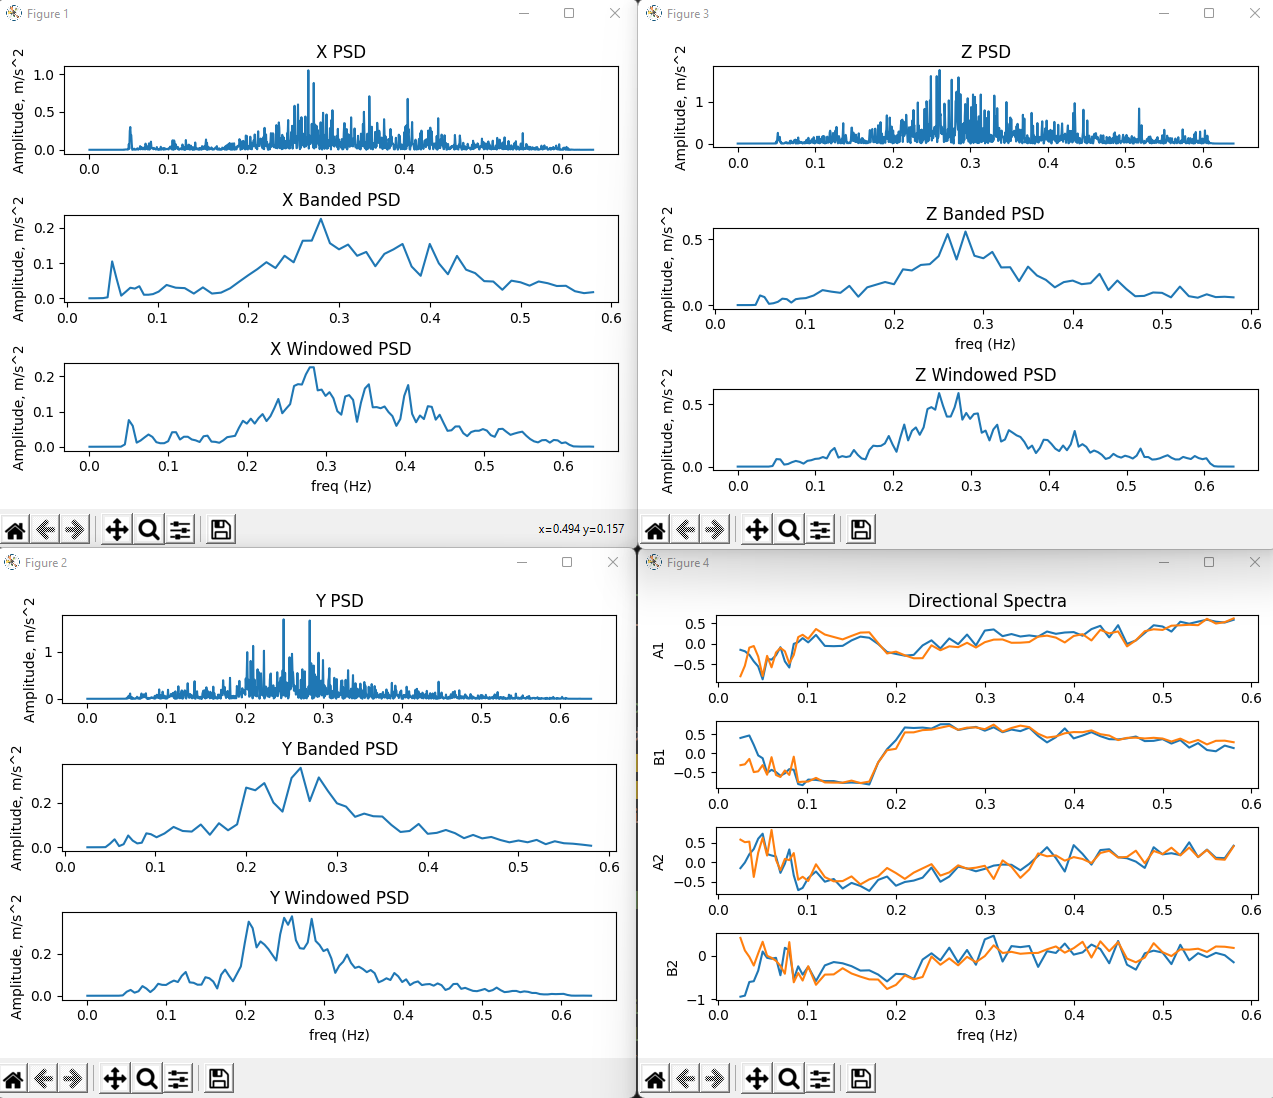
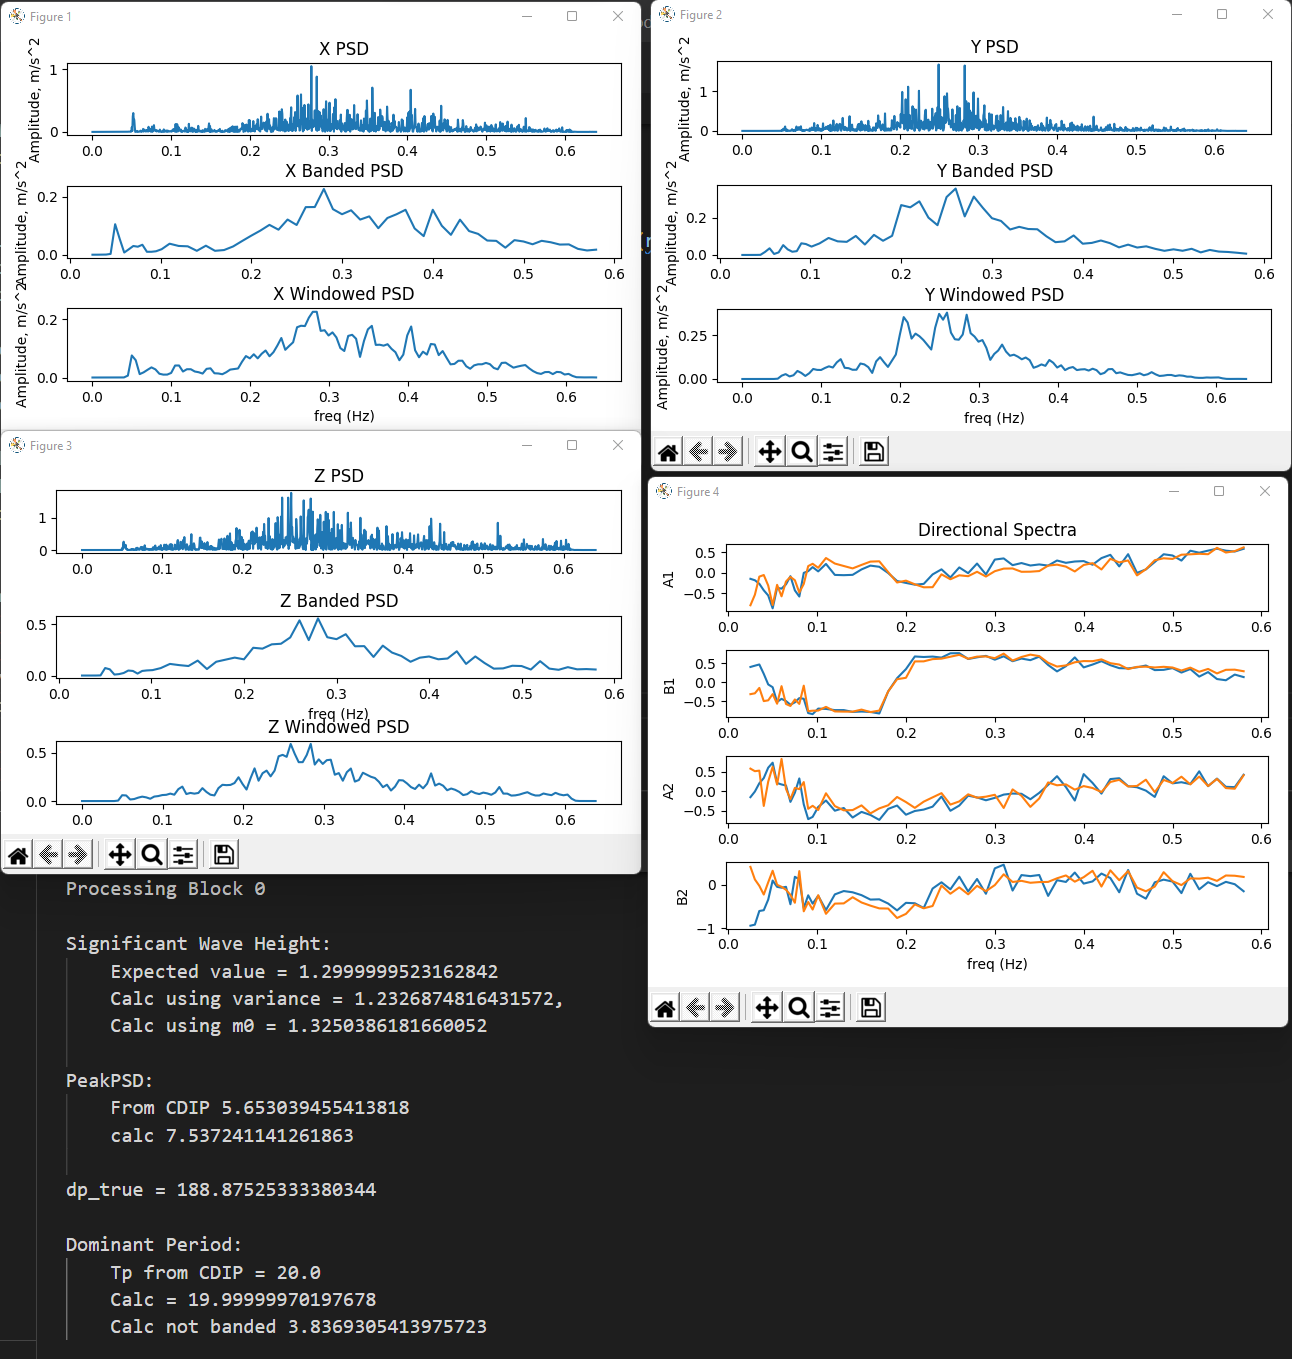
Changed output screenshot

diff --git a/Python/cdip_driver.py b/Python/cdip_driver.py
@@ -236,16 +236,13 @@ for i in range(len(time_bounds["lower"])):
         # Z
         fig3, [plt_psd_zz, plt_psd_banded_zz, plt_w_psd_zz] = plt.subplots(nrows=3, ncols=1)
         plt_psd_zz.plot(freq_space, PSD["zz"])
-        plt_psd_zz.set_ylabel("Amplitude, m/s^2")
         plt_psd_zz.set_title('Z PSD')
 
         plt_psd_banded_zz.plot(freq_midpoints, Band["zz"])
-        plt_psd_banded_zz.set_ylabel("Amplitude, m/s^2")
         plt_psd_banded_zz.set_xlabel("freq (Hz)")
         plt_psd_banded_zz.set_title('Z Banded PSD')
 
         plt_w_psd_zz.plot(wPSD["freq_space"], wPSD["zz"])
-        plt_w_psd_zz.set_ylabel("Amplitude, m/s^2")
         plt_w_psd_zz.set_title("Z Windowed PSD")
         plt.tight_layout()
 
